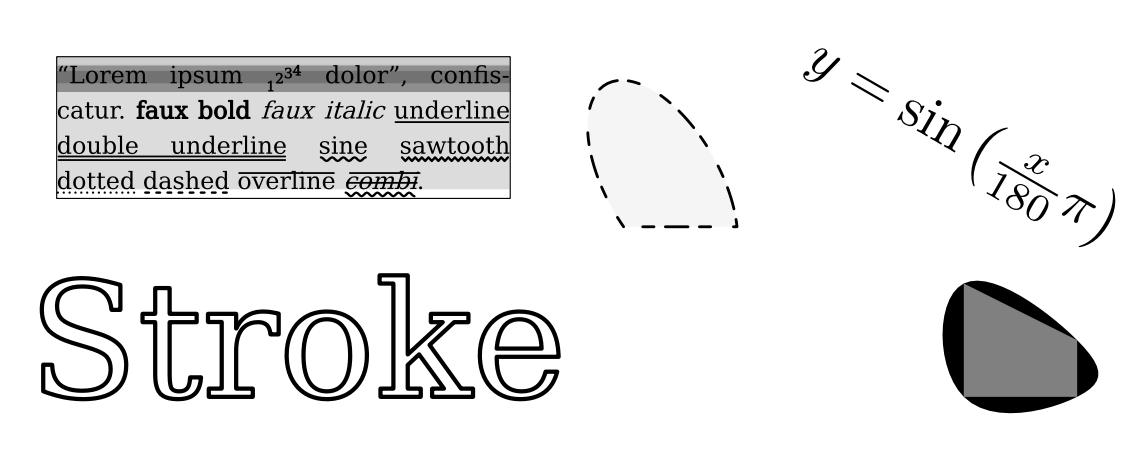
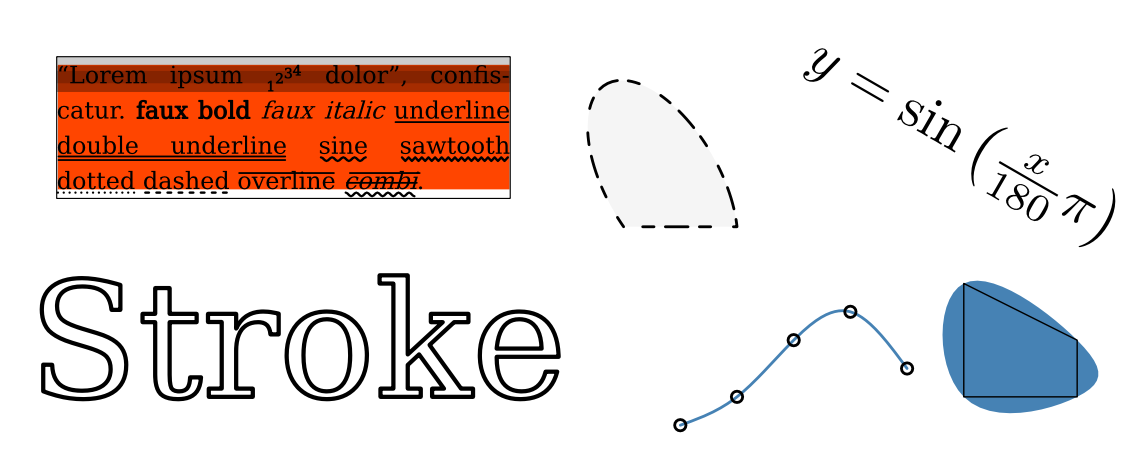
Update readme

diff --git a/example/example.go b/example/example.go
@@ -74,7 +74,7 @@ func drawText(c *canvas.C, x, y float64, face canvas.FontFace, rich *canvas.Rich
 	width, height := 80.0, 25.0
 	text := rich.ToText(width, height, canvas.Justify, canvas.Top, 0.0)
 
-	c.SetColor(canvas.Gainsboro)
+	c.SetColor(canvas.OrangeRed)
 	c.DrawPath(x, y, 0.0, text.Bounds().ToPath())
 	c.SetColor(color.RGBA{0, 0, 0, 50})
 	c.DrawPath(x, y, 0.0, canvas.Rectangle(0, 0, width, -metrics.LineHeight))
@@ -83,9 +83,7 @@ func drawText(c *canvas.C, x, y float64, face canvas.FontFace, rich *canvas.Rich
 
 	c.SetColor(canvas.Black)
 	c.DrawPath(x, y, 0.0, canvas.Rectangle(0.0, 0.0, width, -height).Stroke(0.2, canvas.RoundCapper, canvas.RoundJoiner))
-	//c.DrawText(x, y, 0.0, text)
-	c.DrawPath(x, y, 0.0, text.ToPath())
-	c.DrawPath(x, y, 0.0, text.ToPathDecorations())
+	c.DrawText(x, y, 0.0, text)
 }
 
 func Draw(c *canvas.C) {
@@ -145,7 +143,21 @@ func Draw(c *canvas.C) {
 	p.LineTo(0.0, 20.0)
 	p.Close()
 	q := p.Smoothen()
+	c.SetColor(canvas.SteelBlue)
 	c.DrawPath(170, 10, 0.0, q)
-	c.SetColor(canvas.Grey)
-	c.DrawPath(170, 10, 0.0, p)
+	c.SetColor(canvas.Black)
+	c.DrawPath(170, 10, 0.0, p.Stroke(0.25, canvas.RoundCapper, canvas.RoundJoiner))
+
+	p = &canvas.Path{}
+	p.LineTo(10.0, 5.0)
+	p.LineTo(20.0, 15.0)
+	p.LineTo(30.0, 20.0)
+	p.LineTo(40.0, 10.0)
+	q = p.Smoothen()
+	c.SetColor(canvas.SteelBlue)
+	c.DrawPath(120, 5, 0.0, q.Stroke(0.5, canvas.RoundCapper, canvas.RoundJoiner))
+	c.SetColor(canvas.Black)
+	for _, point := range p.Points() {
+		c.DrawPath(120, 5, 0.0, canvas.Circle(point.X, point.Y, 1.0).Stroke(0.5, canvas.RoundCapper, canvas.RoundJoiner))
+	}
 }

diff --git a/README.md b/README.md
@@ -4,7 +4,7 @@ Canvas is a common vector drawing target that can output SVG, PDF, EPS and raste
 
 ![Example](https://raw.githubusercontent.com/tdewolff/canvas/master/example/example.png)
 
-**Figure 1**: top-left you can see text being fitted into a box and their bounding box (light grey), the spaces between the words on the first row are being stretched to fill the whole width. You can see all the possible styles and text decorations applied. Also note the typographic substitutions (the quotes) and ligature support (fi, ffi, ffl, ...). Below the text box, the word "stroke" is being stroked and drawn as a path. Top-right we see a LaTeX formula that has been converted to a path. Left of that we see ellipse support showcasing precise dashing, notably the length of e.g. the short dash is equal wherever it is (approximated through arc length parametrization) on the curve. It also shows support for alternating dash lengths, in this case (2.0, 4.0, 2.0) for dashes and for spaces. Note that the dashes themselves are elliptical arcs as well (thus exactly precise even if magnified greatly). In the bottom-right we see a closed polygon of four points being smoothed by cubic Béziers that are smooth along the whole path (works for both open and closed paths).
+**Figure 1**: top-left you can see text being fitted into a box and their bounding box (orange-red), the spaces between the words on the first row are being stretched to fill the whole width. You can see all the possible styles and text decorations applied. Also note the typographic substitutions (the quotes) and ligature support (fi, ffi, ffl, ...). Below the text box, the word "stroke" is being stroked and drawn as a path. Top-right we see a LaTeX formula that has been converted to a path. Left of that we see ellipse support showcasing precise dashing, notably the length of e.g. the short dash is equal wherever it is (approximated through arc length parametrization) on the curve. It also shows support for alternating dash lengths, in this case (2.0, 4.0, 2.0) for dashes and for spaces. Note that the dashes themselves are elliptical arcs as well (thus exactly precise even if magnified greatly). In the bottom-right we see a closed polygon of four points being smoothed by cubic Béziers that are smooth along the whole path, and next to it on the left an open path.
 
 **Terminology**: a path is a sequence of drawing commands (MoveTo, LineTo, QuadTo, CubeTo, ArcTo, Close) that completely describe a path. QuadTo and CubeTo are quadratic and cubic Béziers respectively, ArcTo is an elliptical arc, and Close is a LineTo to the last MoveTo command and closes the path (sometimes this has a special meaning such as when stroking). A path can consist of several path segments by having multiple MoveTos, Closes, or the pair of Close and MoveTo. Flattening is the action of converting the QuadTo, CubeTo and ArcTo commands into LineTos.
 
@@ -34,7 +34,7 @@ Papers
 | CubeTo  | yes     | yes    | yes (GL5) | yes (GL5 + Chebyshev10) |
 | ArcTo   | yes | yes | yes (GL5) | yes (GL5 + Chebyshev10) |
 
-* Ellipse => Cubic Bézier: used by rasterizer and PDF targets (Goldapp)
+* Ellipse => Cubic Bézier: used by rasterizer and PDF targets (Maisonobe)
 
 NB: GL5 means a Gauss-Legendre n=5, which is an numerical approximation as there is no analytical solution. Chebyshev is a converging way to approximate a function by an n=10 degree polynomial. It uses the bisection method as well to determine the polynomial points.
 
@@ -74,6 +74,7 @@ Optimization
 Far future
 
 * Load in PDFs, SVGs and EPSs and turn to paths/texts
+* Load in Markdown/HTML formatting and turn into texts
 
 
 ## Canvas
